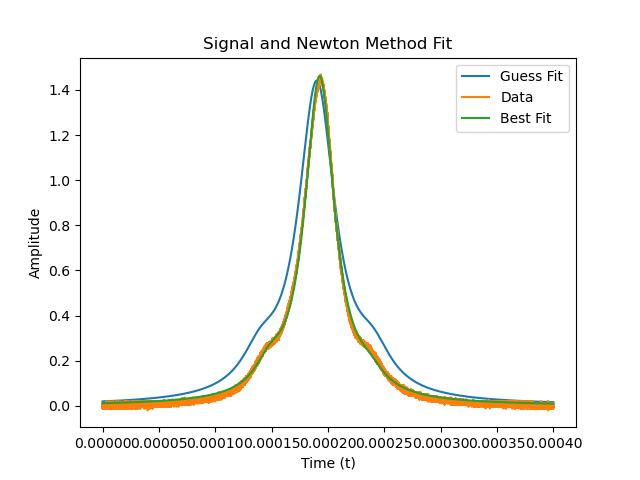
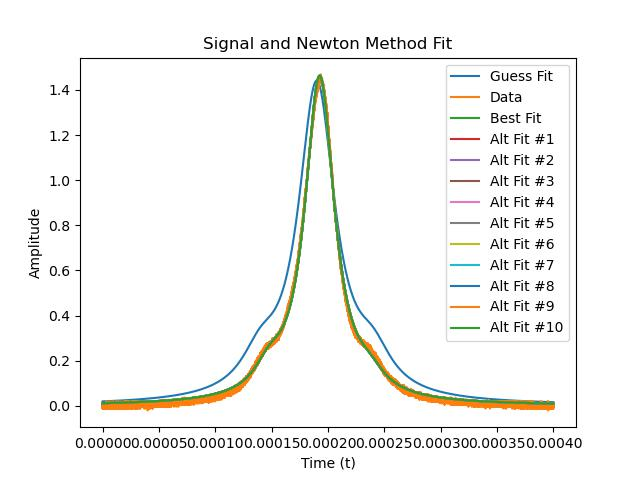
cleaned up f

diff --git a/Assignment 4/a4q1f.py b/Assignment 4/a4q1f.py
@@ -101,11 +101,12 @@ for i in range(10):
 
 # Plotting part
 og_chi = chi2(p, t, d)
+print("Parameters' Chi^2 square:", og_chi)
 plt.plot(t, three_lorentz_fit(p, t), label = "Best Fit")
 sample_diff_chi = []
 for i in range(len(var_p)):
     sample_diff_chi.append(chi2(var_p[i], t, d) - og_chi)
-    #plt.plot(t, three_lorentz_fit(var_p[i], t), label = "Alt Fit #"+str(i+1))
+    plt.plot(t, three_lorentz_fit(var_p[i], t), label = "Alt Fit #"+str(i+1))
     print("Alternative fit", i+1, " Chi^2 difference:", sample_diff_chi[-1])
 
 print("Mean difference in Chi^2:", np.mean(sample_diff_chi))
